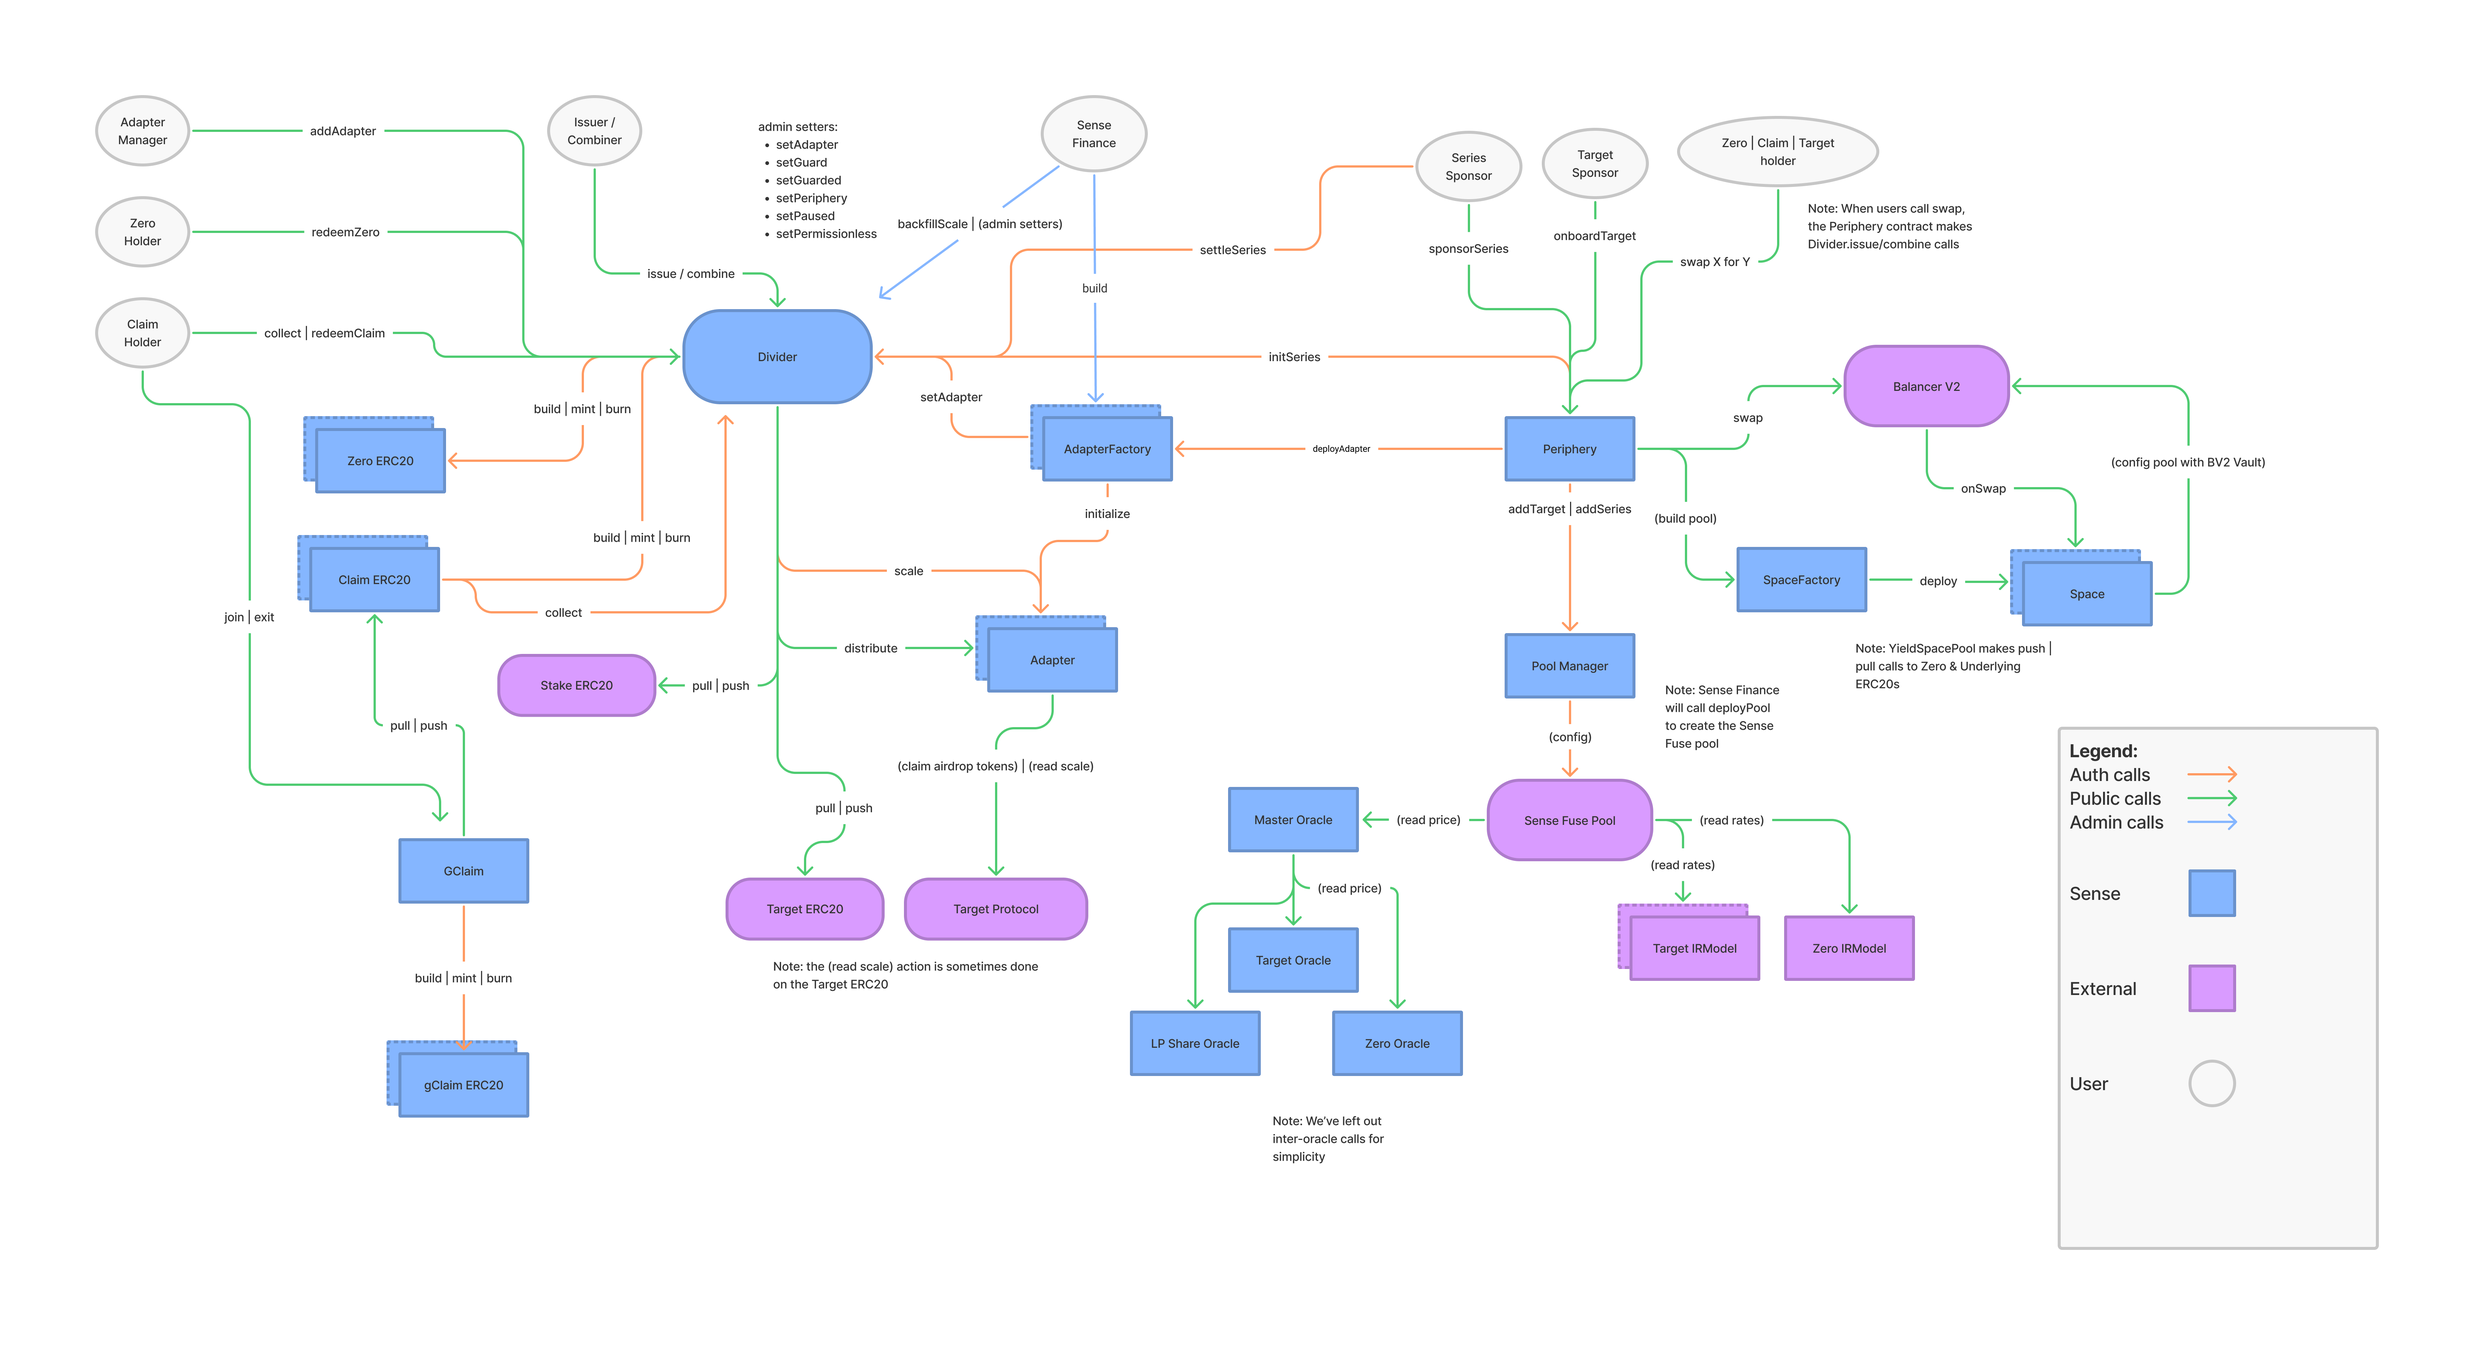
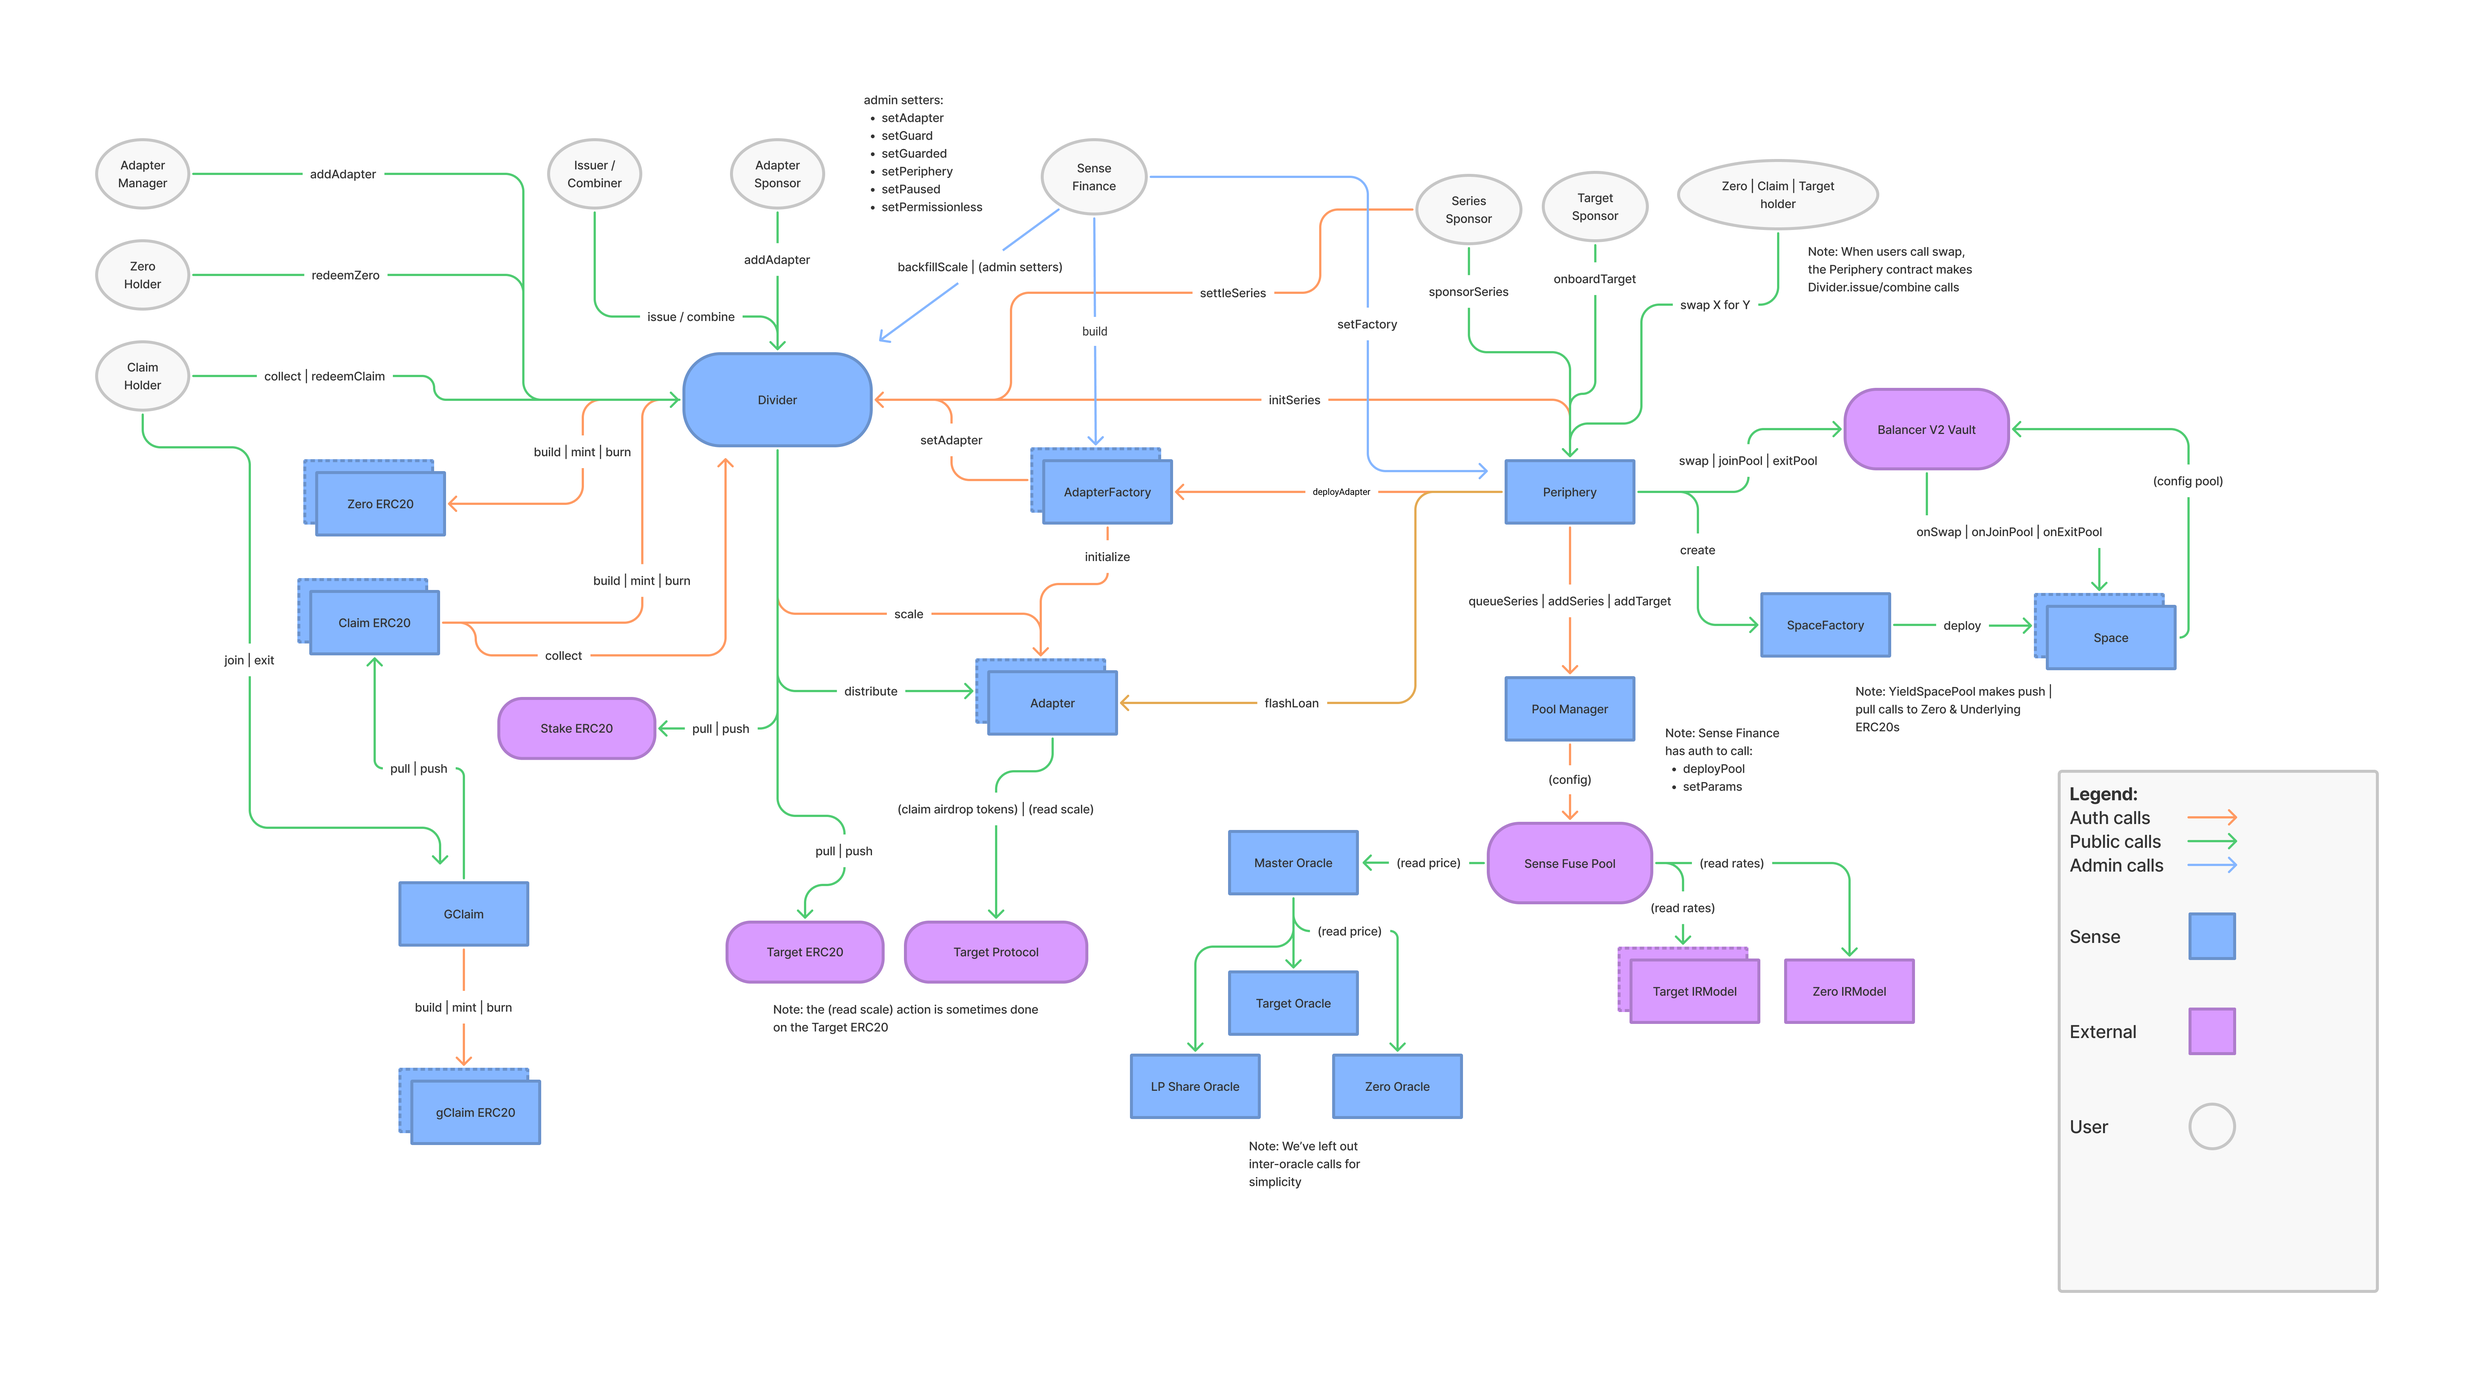
docs: update readme & contracts diagram

diff --git a/README.md b/README.md
@@ -73,15 +73,17 @@ yarn build
 
 # <img src="contracts-diagram.png" alt="sense smart contract user/contract interaction diagram">
 
-The `Divider` is the accounting engine of the Sense Protocol. It allows users to "divide" `Target` assets into ERC20 `Zeros` & `Claims` with the help of numerous auxilary contracts including `Adapters`, `Adapter Factories`, and the `Periphery` contract. Each Target can have up to three instances or `series` of Zeros and Claims, and each series is uniquely identified by their `maturity`. The Divider reads [`Scale` values](https://docs.sense.finance/litepaper/#rate-accumulator) from Adapters to determine how much Target to distribute to Zero & Claim holders at or before maturity. Constituing as the "core" of Sense, these contracts fully implement the [Sense Lifecycle](https://docs.sense.finance/litepaper/#divider) as well as permissionless series management & onboarding of arbitrary Target yield-bearing assets. 
+The `Divider` is the accounting engine of the Sense Protocol. It allows users to "divide" `Target` assets into ERC20 `Zeros` & `Claims` with the help of numerous auxilary contracts including `Adapters`, `Adapter Factories`, and the `Periphery` contract. Each Target can have an arbitrary numnber of active instances or `series` of Zeros and Claims, and each series is uniquely identified by their `maturity`. The Divider reads [`Scale` values](https://docs.sense.finance/litepaper/#rate-accumulator) from Adapters to determine how much Target to distribute to Zero & Claim holders at or before maturity. Constituing as the "core" of Sense, these contracts fully implement the [Sense Lifecycle](https://docs.sense.finance/litepaper/#divider) as well as permissionless series management & onboarding of arbitrary Target yield-bearing assets. 
 
-The core is surrounded by `modules` that build atop and/or leverage its functionality to achieve a certain goal such as [Collect to Drag](https://medium.com/sensefinance/designing-yield-tokens-d20c34d96f56) conversions for Claims or the management of the [Sense Fuse Lending Facility](https://medium.com/sensefinance/sense-finance-x-rari-capital-5c0e0b6289d4).
+The core is surrounded by the following `modules`:
+- `Space`, a Zero/Target AMM Pool that offers an LP position that is principal protected, yield-generating, and IL minimized
+- `Pool Manager`, manager of the [Sense Fuse Lending Facility](https://medium.com/sensefinance/sense-finance-x-rari-capital-5c0e0b6289d4)
 
 ### Divider
-The Divider contract contains the logic to `issue()` ERC20 Zeros and Claims, re`combine()` those assets into Target before their `maturity`, `collect()` Target with Claim tokens, and `redeemZero()` at or after maturity.
+The Divider contract contains the logic to `issue()` ERC20 Zeros and Claims, re-`combine()` those assets into Target before their `maturity`, `collect()` Target with Claim tokens, and `redeemZero()` at or after maturity.
 
 ### Adapter
-Following a hub and spoke model, Adapters surround the Divider and hold logic related to their particular Divider Application. Once onboarded, Adapters have the authority to initialize/settle series, issue Zeros/Claims, and collect/redeem their Target via the Divider.
+Following a hub and spoke model, Adapters surround the Divider and hold logic related to their particular Divider Application, such as stripping yield from yield-bearing assets. Once an Adapter is onboarded, users can initialize/settle series, issue Zeros/Claims, and collect/redeem their Target via the Divider.
 
 The Adapter holds the Target before a series' maturity and contains logic to handle arbitrary airdrops from native or 3rd party liquidity mining programs. Typically denominated in another asset, airdropped tokens are distributed to Claim holders in addition to the yield accrued from the Target. In addition to asset custody, Adapters store parameters related to their individual applications, which gives guidance to the Divider when performing the above-mentioned operations. The parameters include:
 
@@ -95,7 +97,7 @@ The Adapter holds the Target before a series' maturity and contains logic to han
 8. `maxm` - max maturity
 9. `mode` - maturity date type (0 for monthly, 1 for weekly)
 
-To create an Adapter implementation, the contract needs to inherit from `BaseAdapter.sol` and override `_scale()`, `underlying()`, `wrapUnderlying()`, and `unwrapTarget()`. 
+To create an Adapter implementation without airdrops, the contract needs to inherit from `BaseAdapter.sol` and override `_scale()`, `underlying()`, `wrapUnderlying()`, `unwrapTarget()`, `getUnderlyingPrice()`, and `notify()`. 
 
 There are two types of Adapters:
 1. Sense Sponsored Adapters - these are verified by the Sense team and can be permissionessly deployed by Adapter Factories
@@ -108,22 +110,27 @@ The Adapter factory allows any person to deploy a Sense Sponsored Adapter for a 
 
 Following a gradual expansion, Sense Finance will deploy one Adapter Factory for each protocol (e.g cTokens Adapter Factory, Curve LP Share Adapter Factory, etc).
 
-Most factories will be similar except for how they wrap/upwrap the Target and implement `_exists(target)`, a method that communicates to a data contract from the external protocol (e.g the Comptroller on Compound Finance) to check whether the Target passed is a supported asset of that protocol.
+Most factories will be similar except for how they implement `_exists(target)`, a method that communicates to a data contract from the external protocol (e.g the Comptroller on Compound Finance) to check whether the Target passed is a supported asset of that protocol.
 
-Users can deploy an Adapter by making a call to the `Periphery` contract, which has authority to call `deployAdapter(_target)` on the Adapter Factory.
+Users can deploy a Sense Sponsored Adapter by making a call to the `Periphery` contract, which has authority to call `deployAdapter(_target)` on the Adapter Factory.
 
 To create an Adapter Factory, the contract needs to inherit from `BaseFactory.sol` and override `_exists()`.
 
 ### Periphery
 The Periphery contract contains bundled actions for Series Actors and general users. 
 
-For Series Actors, the Periphery exposes the public entry points to onboard new Targets (i.e. deploy adapters) and initialize new Series. The Target Sponsor calls `onboardAdapter` which will deploy an Adapter via an Adapter Factory and onboard the Target to the Sense Fuse Pool. The Series Sponsor calls `sponsorSeries` to initialize a series in the Divider and create a Space for Zero / Underlying trading.
+For Series Actors, the Periphery exposes the public entry points to deploy Sense-Sponsored Adapters for new Targets and to initialize Series within existing adapters. The Target Sponsor calls `onboardAdapter` which will deploy an Adapter via an Adapter Factory and onboard the Target to the Sense Fuse Pool. The Series Sponsor calls `sponsorSeries` to initialize a series in the Divider and create a Space for Zero / Target trading.
 
-Because the BalancerV2 only holds Zeros & the Target's Underlying, users need to execute additional steps to `issue()` and `combine()` in order to enter/exit into/from a Claim position. The Periphery allows users to bundle the necessary calls behind a single function interface and perform the following operations atomically, flashloaning Target from an Adapter when need be:
-- swapTargetForZeros
-- swapTargetForClaims
-- swapZerosForTarget
-- swapClaimsForTarget
+Because the BalancerV2 only holds Zeros & Targets, users need to execute additional steps to `issue()` and `combine()` in order to enter/exit into/from a Claim position. The Periphery allows users to bundle the necessary calls behind a single function interface and perform the following operations atomically, flash loaning Target from an Adapter when need be:
+- swap[Target|Underlying]ForZeros
+- swap[Target|Underlying]ForClaims
+- swapZerosFor[Target|Underlying]
+- swapClaimsFor[Target|Underlying]
+
+Similarily, the Periphery exposes several atomic transactions for LP management through Space.
+- addLiquidityFrom[Target|Underlying]
+- removeLiquidityTo[Target|Underlying]
+- migrateLiquidity
 
 ### Tokens
 This directory contains the tokens contracts. Sense Protocol uses [Rari's ERC20 implementation](https://github.com/Rari-Capital/solmate/blob/main/src/erc20/ERC20.sol) and defines:
@@ -136,34 +143,34 @@ This directory contains the tokens contracts. Sense Protocol uses [Rari's ERC20 
 ### Modules
 A Collection of Modules and Utilities for Sense V1
 
-#### Pool Manager
-`PoolManager` manages the Sense Fuse Pool, a collection of borrowing/lending markets serving all Zeros, the Zero/Underlying LP Shares their respective Targets. It allows users to permissionlessly onboard new Target (`addTarget()`), Zeros, and their Space LP shares (`queueSeries()` & `addSeries()`). Once new assets are onboarded, the Sense Fuse Pool will query price data from the `Master Oracle` which exposes a mapping, linking token addresses to oracle addresses. 
+#### Space
+`Space` is an Zero/Target AMM Pool built on Balancer V2. It implements the [Yieldspace](https://yield.is/YieldSpace.pdf) invariant but introduces a meaningful improvement by allowing LPs to deposit a yield-generating _quote_ asset, i.e. the Target, instead of the Zero's Underlying, as was originally concieved. Because its TWAP price is utilized by the Sense Fuse Pool, Space is heavily inspired by Balancer's [Weighted 2 Token Pool](https://github.com/balancer-labs/balancer-v2-monorepo/blob/c40b9a783e328d817892693bd13b4a14e4dcff4d/pkg/pool-weighted/contracts/WeightedPool2Tokens.sol) and its oracle functionality. Each Series will have a unique `Space` for Zero/Target trading, which will be deployed and initialized through the `Space Factory`. More context on `Space`'s development can be found here (TODO, add link)
 
-#### Space [WIP]
-`Space` is a Zero/Underlying AMM pool that conforms to the [Yieldspace](https://yield.is/YieldSpace.pdf) invariant and lives on BalancerV2. Because its TWAP price is utilized by the Sense Fuse Pool, Space is heavily inspired by Balancer's [Weighted 2 Token Pool](https://github.com/balancer-labs/balancer-v2-monorepo/blob/c40b9a783e328d817892693bd13b4a14e4dcff4d/pkg/pool-weighted/contracts/WeightedPool2Tokens.sol) and its oracle functionality. Each Series will have a unique `Space` for Zero/Underlying trading, which will be deployed and initialized through the `Space Factory`.
+#### Pool Manager
+`PoolManager` manages the Sense Fuse Pool, a collection of borrowing/lending markets serving all Zeros, the Space LP Shares, and their respective Targets. It allows users to permissionlessly onboard new Target (`addTarget()`), Zeros and their Space LP shares (`queueSeries()` & `addSeries()`). Once new assets are onboarded, the Sense Fuse Pool will query price data from the `Master Oracle` which exposes a mapping, linking token addresses to oracle addresses. 
 
 #### G Claim Manager [WIP]
 `GClaimManager` lets a user deposit their "Collect" Claims and receive "Drag" Claim representations. Specifically, it enables users to backfill interest accrued on their "Collect" Claim so that it can be used in other DeFi projects that don't know how to collect accrued yield for the user. Similarly, users may bring existing gClaims back to the contract to re-extract the PY and reconstitute their Collect Claims. More information between Collect and Drag Claims can [be found here](https://medium.com/sensefinance/designing-yield-tokens-d20c34d96f56). Note that some Claims within Sense have PY composed of native yield as well as airdrop rewards, the latter of which can balloon and shrink in value, causing wide fluctuations in the gClaim valuation. 
-
 
 #### Recycling Module [WIP]
 The Recycling Module is a contract for yield traders who want constantly-preserved IR sensitivity on their balances, and do not want to find reinvestment opportunities for their PY. The contract uses a dutch auction to automatically sell collected PY off at some interval for more Claims, which refocuses users' positions on FY.
 
 
 ### Access
-We use `Trust.sol` to provide with access control via `requiresTrust` to contracts inheriting from it.
+We use `Trust.sol` to provide access control via `requiresTrust` to contracts inheriting from it. In some contracts, we introduce per-function access control for greater granularity, such as `peripherOnly`.
 
 ### Admin
 
-The long-term goal of the Sense Protocol is to be as governance minimized as possible. However, out of caution, we’re taking a progressive decentralization approach, where Sense Finance Inc retains certain privileged permissions of v1 of the Protocol to ensure the system scales safely as well as pause the system in case of an emergency (vulnerability, hack, etc). The following list elaborates on these permissions:
+The long-term goal of the Sense Protocol is to be as governance minimized as possible. However, out of caution, we’re taking a progressive decentralization approach, where Sense Finance Inc retains certain privileged permissions of Sense-v1 to ensure the system scales safely as well as pause the system in case of an emergency (vulnerability, hack, etc). The following list elaborates on these permissions:
 
-1. `Divider.setIsTrusted` - add a new Adapter Factory
+1. `Divider.setIsTrusted` - give auth to a new Adapter Factory
 2. `Divider.setAdapter` - pause a faulty adapter
 3. `Divider.backfillScale` - fix a faulty scale value / pass in a scale if no settlement occurs
 4. `Divider.setPause` - pause the Divider (emergencies only)
 5. `Divider.setGuard` - set the cap for the Guarded launch
 6. `Divider.setGuarded` - release the Guards
 7. `Divider.setPeriphery` - point to the Periphery
+8. `Periphery.setFactory` - onboard a new Adapter Factory
 8. `PoolManager.deployPool` - deploy the Sense Fuse Pool
 9. `PoolManager.setParams` - set parameters for the Sense Fuse Pool
 
@@ -174,7 +181,6 @@ These are libraries we need as part of the protocol that we've imported from oth
 - FullMath.sol
 - OracleLibrary.sol
 - PoolAddress.sol
-- TickMath.sol
 
 
 ## Developing
